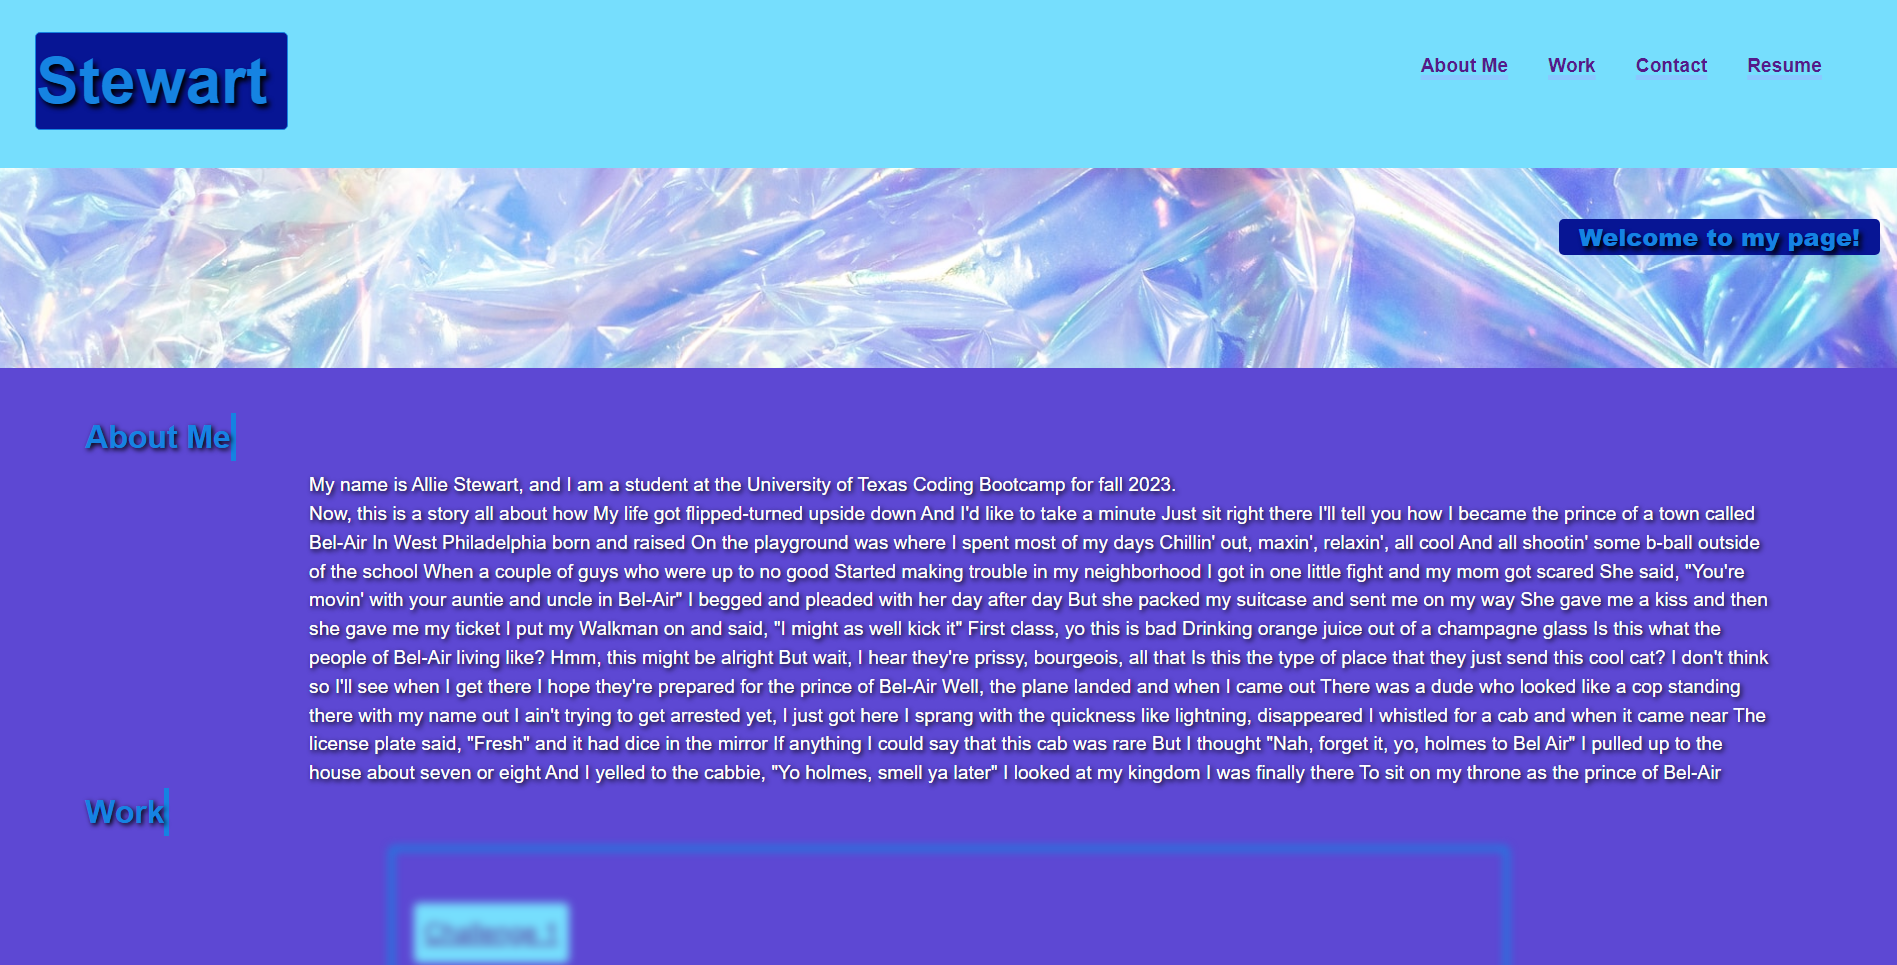
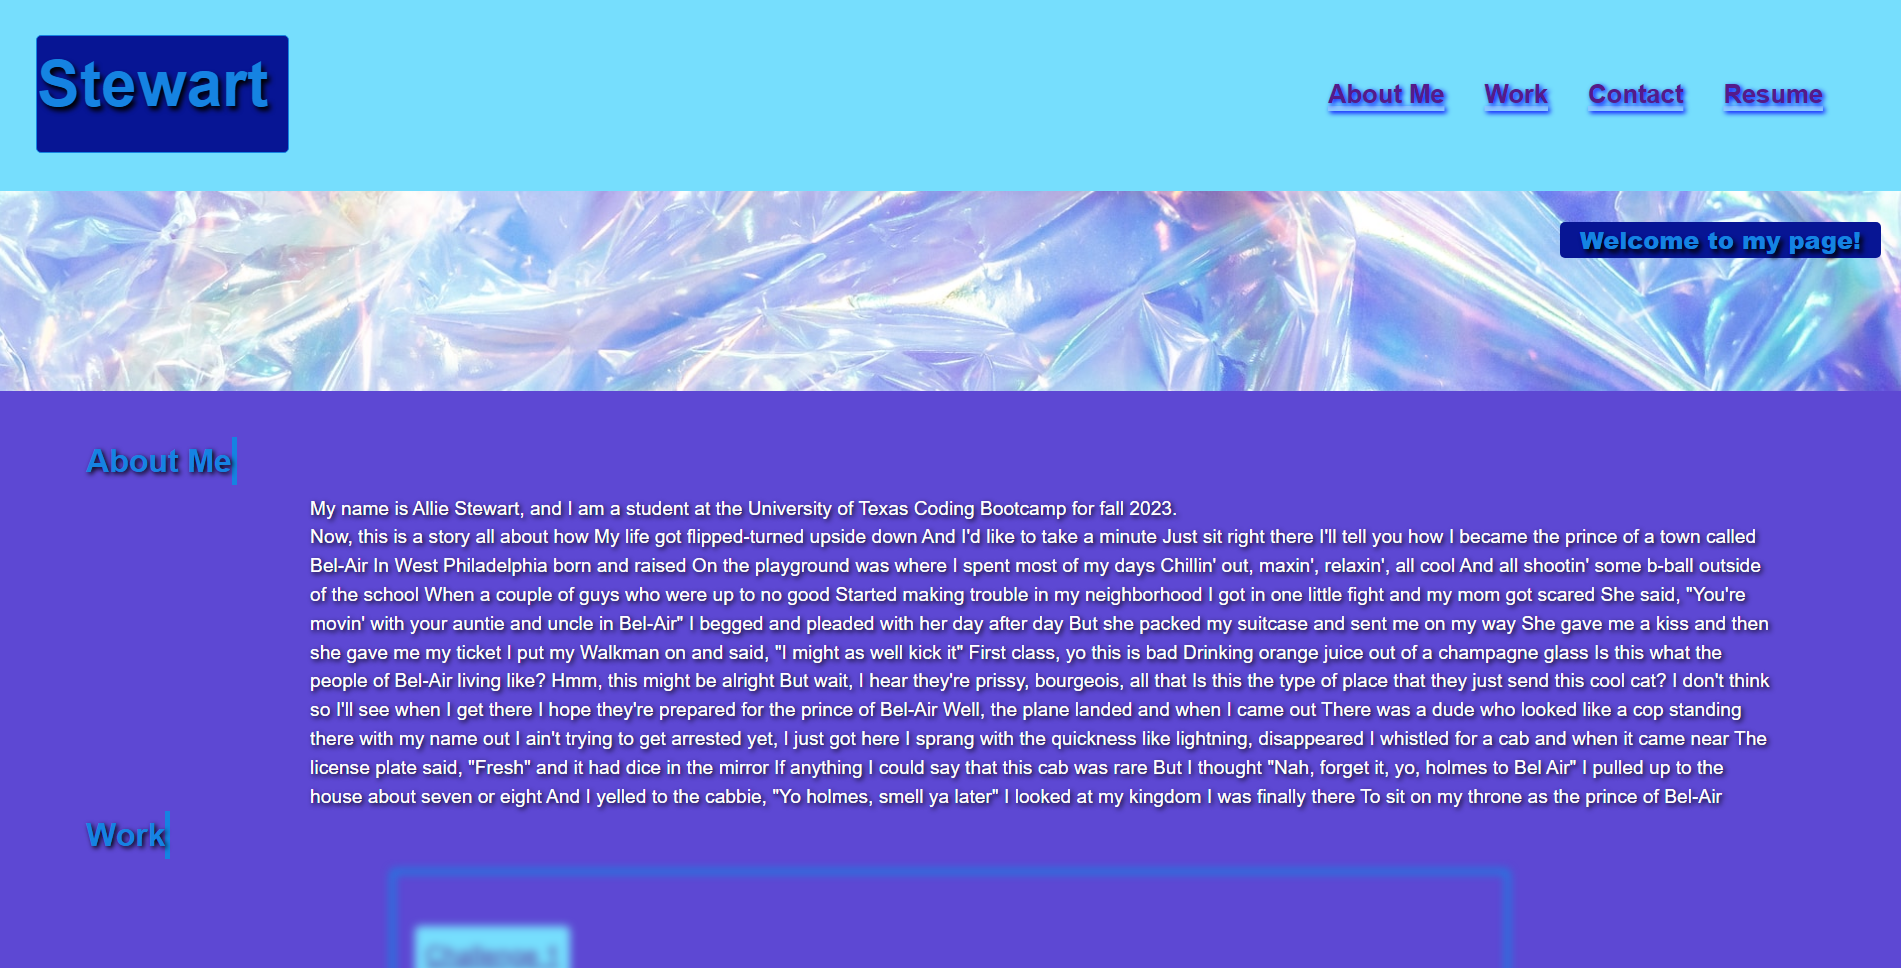
fixed up screen1, spaced nav links out in .css

diff --git a/assets/css/style.css b/assets/css/style.css
@@ -88,11 +88,13 @@ nav ul {
 
 /* Separated nav links out a bit better */
 nav a {
-    font-size: 120%;
-    background-color: unset;
+    display: flex;
+    font-size: 160%;
     font-weight: bold;
     text-decoration: none;
+    text-decoration: hide;
     padding: 20px;
+    text-shadow: 2px 2px 5px blue;
   }
 
 /* Crystal image */
